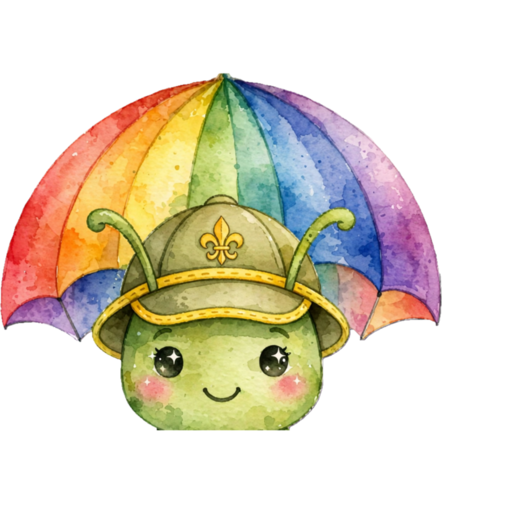
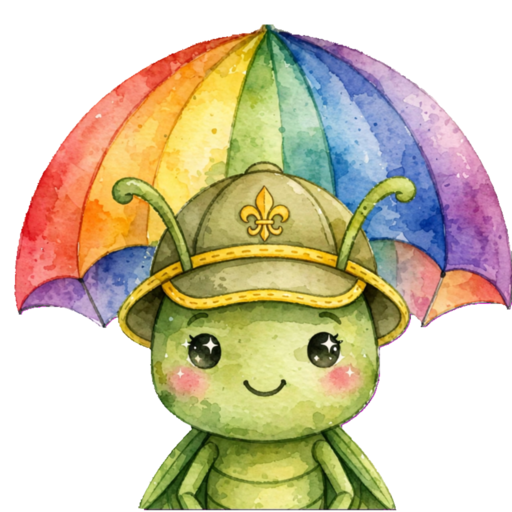
brand: 吉祥物裁法落實 A 全身構圖（用家已揀），加 CROP=A/B/C 開關
- tools/build-mascot.sh 加 CROP=A（預設・全身）／B（主角特寫）／C（中景）／auto（自動裁）
  固定構圖框以 1024 空間定義，轉構圖一句：CROP=C bash tools/build-mascot.sh
- 修雙重裁 bug：腳本預設來源改為未裁過嘅 img/ghmeeting_mascot.src.png（原檔 1024² 去背）；
  之前冇畀來源檔會對已裁好嘅輸出再裁一次（RMSE 33% → 而家 3.2%，淨差去背微處理）
- 出街 icon 全部由 A 裁法重生：icon-512/192（透明）・icon-512-maskable（綠底 60%）・apple-touch-icon（180² 綠底）・favicon-64
- docs/mascot-crop.html：三個裁法實測對比 → 改做決策記錄（A 已採用，B/C 後備縮到 256 留底）
- docs/brand.html / README：更新吉祥物流程同 CROP 開關說明

測試：smoke 351 項全過・ui 全路徑行得

diff --git a/docs/mascot-crop.html b/docs/mascot-crop.html
@@ -1,0 +1,103 @@
+<!DOCTYPE html>
+<html lang="zh-HK">
+<head>
+<meta charset="UTF-8">
+<meta name="viewport" content="width=device-width,initial-scale=1">
+<title>吉祥物裁法三揀一｜童仔 GH</title>
+<style>
+:root{--gh-green:#6BBE66;--gh-yellow:#FFD54F;--gh-blue:#7AB8E6;--gh-paper:#FFFBF0;--gh-ink:#3A372E;--gh-line:#F1E7D3;--gh-radius:24px}
+*{box-sizing:border-box}
+body{margin:0;background:var(--gh-paper);color:var(--gh-ink);
+  font-family:"PingFang HK","Noto Sans HK","Microsoft JhengHei",ui-rounded,sans-serif;line-height:1.6;padding:0 0 60px}
+.wrap{max-width:900px;margin:0 auto;padding:0 18px}
+h1{font-size:1.5rem;margin:.7em 0 .2em}
+h2{font-size:1.05rem;margin:1.6em 0 .5em;padding-left:10px;border-left:5px solid var(--gh-green)}
+small{color:#8A8474}
+.grid{display:grid;grid-template-columns:repeat(3,1fr);gap:12px}
+@media(max-width:620px){.grid{grid-template-columns:1fr}}
+.card{background:#fff;border:1.5px solid var(--gh-line);border-radius:var(--gh-radius);padding:14px;text-align:center}
+.card h3{margin:0 0 2px;font-size:1rem}
+.card .why{font-size:.76rem;color:#8A8474;min-height:2.4em;margin-bottom:8px}
+.big{width:132px;height:132px;display:block;margin:0 auto}
+.check{background-image:linear-gradient(45deg,#eee 25%,transparent 25%,transparent 75%,#eee 75%),
+  linear-gradient(45deg,#eee 25%,#fff 25%,#fff 75%,#eee 75%);background-size:16px 16px;
+  background-position:0 0,8px 8px;border-radius:16px}
+.row{display:flex;gap:14px;align-items:flex-end;justify-content:center;margin-top:12px;flex-wrap:wrap}
+.row div{text-align:center}
+.row small{display:block;font-size:.62rem;margin-top:3px}
+.s48{width:48px;height:48px}
+.s72{width:72px;height:72px}
+.tile{width:64px;height:64px;border-radius:15px}
+.dark{background:#3A372E;padding:10px;border-radius:18px;display:inline-block}
+.note{background:var(--gh-yellow-lt,#FFF6DF);border:1.5px solid var(--gh-yellow);border-radius:16px;
+  padding:12px 14px;font-size:.86rem;margin:14px 0}
+table{border-collapse:collapse;width:100%;font-size:.84rem;margin-top:8px}
+th,td{border-bottom:1px solid var(--gh-line);padding:6px 8px;text-align:left}
+th{color:#3A7F39;font-size:.78rem}
+</style>
+</head>
+<body>
+<div class="wrap">
+  <h1>🐛 吉祥物裁法・決策記錄</h1>
+  <div class="note"><b>✅ 已採用 A（全身構圖）。</b>出街嘅 <code>icons/icon-512.png</code>・<code>icon-192.png</code>・
+<code>icon-512-maskable.png</code>・<code>apple-touch-icon.png</code> 全部係 A 裁法。<br>
+想轉後備構圖：<code>CROP=C bash tools/build-mascot.sh</code>（B／C 都得），全套 icon 即時重生。</div>
+<p><small>同一張 <code>img/ghmeeting_mascot.src.png</code>（原檔，1024² 去背），三個裁法。
+左邊 A 係用緊嗰個；B／C 留低做後備，第時想換主角特寫就一句 command 搞掂。</small></p>
+
+  <div class="grid">
+    <div class="card">
+      <h3>A · 全身 ✅ 已採用</h3>
+      <div class="why">彩虹傘完整出晒，草蜢喺下面<br>品牌元素最齊，48px 下草蜢偏細但認得出</div>
+      <div class="check" style="width:132px;height:132px;margin:0 auto"><img class="big" src="../icons/icon-512.png" alt="A"></div>
+      <div class="row">
+        <div><img class="s72" src="../icons/icon-512.png"><small>72px</small></div>
+        <div><img class="s48" src="../icons/icon-512.png"><small>48px</small></div>
+        <div><img class="tile" src="../icons/icon-512-maskable.png"><small>iOS 綠底</small></div>
+        <div class="dark"><img class="s48" src="../icons/icon-512.png"><small style="color:#bbb">深底</small></div>
+      </div>
+    </div>
+
+    <div class="card">
+      <h3>B · 主角特寫（後備 1）</h3>
+      <div class="why">裁到草蜢做主角（佔畫面 90% 闊），彩虹傘變背景弧<br>48px 都睇到成隻草蜢連腳</div>
+      <div class="check" style="width:132px;height:132px;margin:0 auto"><img class="big" src="../icons/crop-preview/mascot-B.png" alt="B"></div>
+      <div class="row">
+        <div><img class="s72" src="../icons/crop-preview/mascot-B.png"><small>72px</small></div>
+        <div><img class="s48" src="../icons/crop-preview/mascot-B.png"><small>48px</small></div>
+        <div><img class="tile" src="../icons/crop-preview/ios-B.png"><small>iOS 綠底</small></div>
+        <div class="dark"><img class="s48" src="../icons/crop-preview/mascot-B.png"><small style="color:#bbb">深底</small></div>
+      </div>
+    </div>
+
+    <div class="card">
+      <h3>C · 中景（後備 2・第 2 選擇）</h3>
+      <div class="why">傘頂留多啲（見到彩虹），草蜢大一級<br>兩邊都有，但 48px 仍然偏細</div>
+      <div class="check" style="width:132px;height:132px;margin:0 auto"><img class="big" src="../icons/crop-preview/mascot-C.png" alt="C"></div>
+      <div class="row">
+        <div><img class="s72" src="../icons/crop-preview/mascot-C.png"><small>72px</small></div>
+        <div><img class="s48" src="../icons/crop-preview/mascot-C.png"><small>48px</small></div>
+        <div><img class="tile" src="../icons/crop-preview/ios-C.png"><small>iOS 綠底</small></div>
+        <div class="dark"><img class="s48" src="../icons/crop-preview/mascot-C.png"><small style="color:#bbb">深底</small></div>
+      </div>
+    </div>
+  </div>
+
+  <div class="note"><b>構圖數據（44 格網分析原圖）：</b>彩虹傘佔上面 ~55%，草蜢佔下面 ~30%（得 15/44 格闊）。
+所以無論邊個裁法，48px 下草蜢都唔會好大 —— A 保留晒品牌元素（彩虹傘），認得到係童仔 GH，所以揀 A。</div>
+
+  <h2>三個裁法數據</h2>
+  <table>
+    <tr><th>裁法</th><th>構圖</th><th>草蜢佔畫面</th><th>48px 可讀性</th></tr>
+    <tr><td>A 全身</td><td>彩虹傘完整 + 草蜢全身</td><td>約 34% 高</td><td>⚠ 草蜢糊，似得個頭</td></tr>
+    <tr><td>B 特寫</td><td>草蜢做主角 + 傘做背景弧</td><td>約 62% 高</td><td>✅ 睇到成隻連腳</td></tr>
+    <tr><td>C 中景</td><td>傘頂保留較多 + 草蜢全身</td><td>約 48% 高</td><td>🆗 中間落墨</td></tr>
+  </table>
+
+  <h2>第時想再靚啲</h2>
+  <p><small>如果你有<b>草蜢全身正面、腳清楚</b>嘅版本（或者想要佢企定定、雙手攤開嘅吉祥物公仔構圖），
+  掉張 1024² 去背 PNG 入 <code>img/ghmeeting_mascot.png</code>，跑
+  <code>bash tools/build-mascot.sh</code> —— 構圖好嘅話 A 裁法都已經好靚，唔使犧牲彩虹傘。</small></p>
+</div>
+</body>
+</html>

diff --git a/docs/brand.html b/docs/brand.html
@@ -227,7 +227,9 @@ footer{margin-top:40px;padding-top:14px;border-top:1px solid var(--gh-line);colo
   </div>
 
   <p><small>吉祥物＝小蚱蜢戴童軍帽＋背後彩虹快樂傘，水彩繪本風，去背透明底。
-  原檔 <code>img/ghmeeting_mascot.png</code>（1024² 透明）→ 由 <code>tools/build-mascot.sh</code> 自動出全套 PWA icon。</small></p>
+  原檔 <code>img/ghmeeting_mascot.src.png</code>（1024² 去背・未裁）→ <code>tools/build-mascot.sh</code> 出全套 PWA icon。
+  裁法用 <b>A 全身構圖</b>（彩虹傘完整＋草蜢全身）；後備 B 主角特寫／C 中景：<code>CROP=C bash tools/build-mascot.sh</code>。
+  三個裁法嘅實測對比喺 <a href="mascot-crop.html">mascot-crop.html</a>。</small></p>
 
   <h3>吉祥物 → PWA icon（同一張圖，四種輸出）</h3>
   <div style="display:flex;gap:14px;flex-wrap:wrap">

diff --git a/README.md b/README.md
@@ -37,10 +37,10 @@
 13 粒：🅰 集會目錄・範本・帶領・官方套包・手冊 ／ 🅱 工作紙・活動・歌曲・快樂傘・快鍵 ／ 頂欄 搜尋・記錄・設定。
 48×48 viewBox｜2.2px 圓角描邊｜水彩填色＋20% 白邊｜一套出齊 PNG 48/192/1024。
 
-**吉祥物**：`img/ghmeeting_mascot.png`（1024² 去背）→ 自動出 `icons/icon-512.png`・`icon-192.png`・`icon-512-maskable.png`（綠底）・`apple-touch-icon.png`（180² 綠底）。
+**吉祥物**：`img/ghmeeting_mascot.src.png`（原檔 1024² 去背）→ 裁法 **A 全身**（彩虹傘完整＋草蜢全身）→ 自動出 `icons/icon-512.png`・`icon-192.png`・`icon-512-maskable.png`（綠底）・`apple-touch-icon.png`（180² 綠底）。後備構圖 B／C 見 `docs/mascot-crop.html`。
 
 ```bash
-bash tools/build-mascot.sh img/ghmeeting_mascot.png   # 換吉祥物 → 全套 PWA icon
+bash tools/build-mascot.sh                         # 換吉祥物 → 全套 PWA icon（CROP=B|C 轉構圖）
 node tools/build-icons.mjs                            # 改 ICON → sprite + PNG + 注入 index.html
 ```
 
